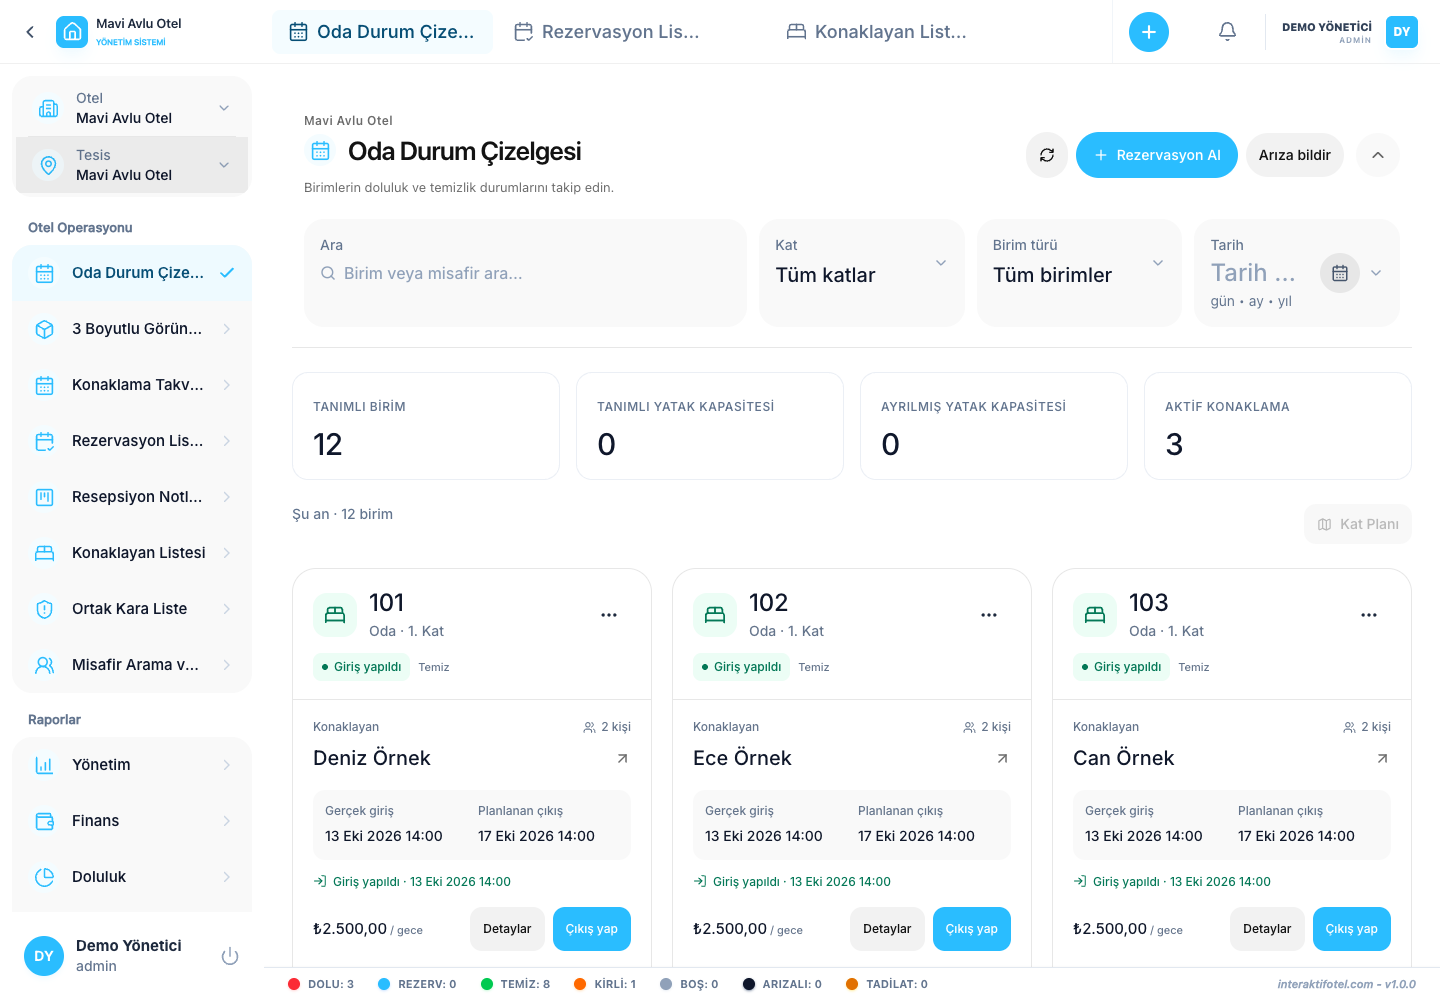
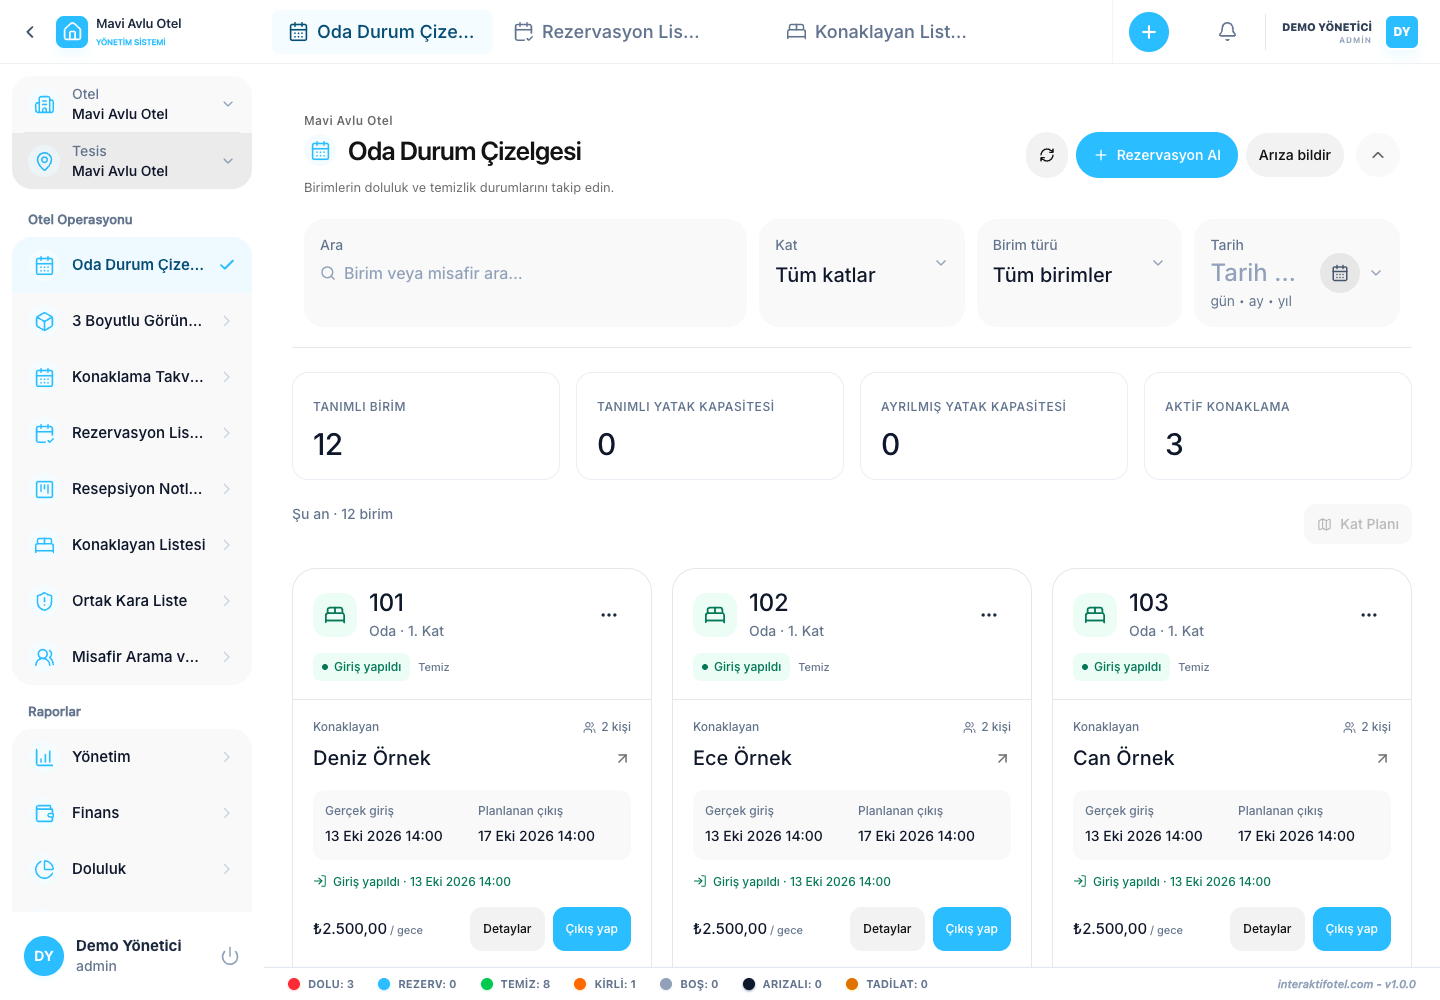
fixes

diff --git a/ui/src/components/PropertySwitcher.tsx b/ui/src/components/PropertySwitcher.tsx
@@ -9,7 +9,7 @@ export function PropertySwitcher({ snapshot, onSelection }: {
   onSelection: (selection: Selection) => void;
 }) {
   return <section aria-label="Otel ve tesis seçimi">
-    <FieldCard className="property-switcher-card">
+    <FieldCard className="sidebar-menu-group property-switcher-card">
       <UniSelect grouped variant="field" caption="Otel" ariaLabel="Otel seçimi"
         icon={<NavigationIcon name="facility" />} value={snapshot.hotel_id}
         options={snapshot.hotels.map(hotel => ({ value: hotel.hotel_id, label: hotel.name }))}

diff --git a/ui/src/index.css b/ui/src/index.css
@@ -857,10 +857,8 @@ label:active > .uni-choice { scale: var(--interaction-press-scale); }
 
 /* Shared hotel/facility card follows the sidebar palette in every theme. */
 .property-switcher-card {
-  padding: 4px;
-  overflow: hidden;
-  border-radius: 20px;
-  background: var(--color-uni-surface);
+  padding: 0;
+  border: 0;
   transform: none !important;
   scale: 1 !important;
 }
